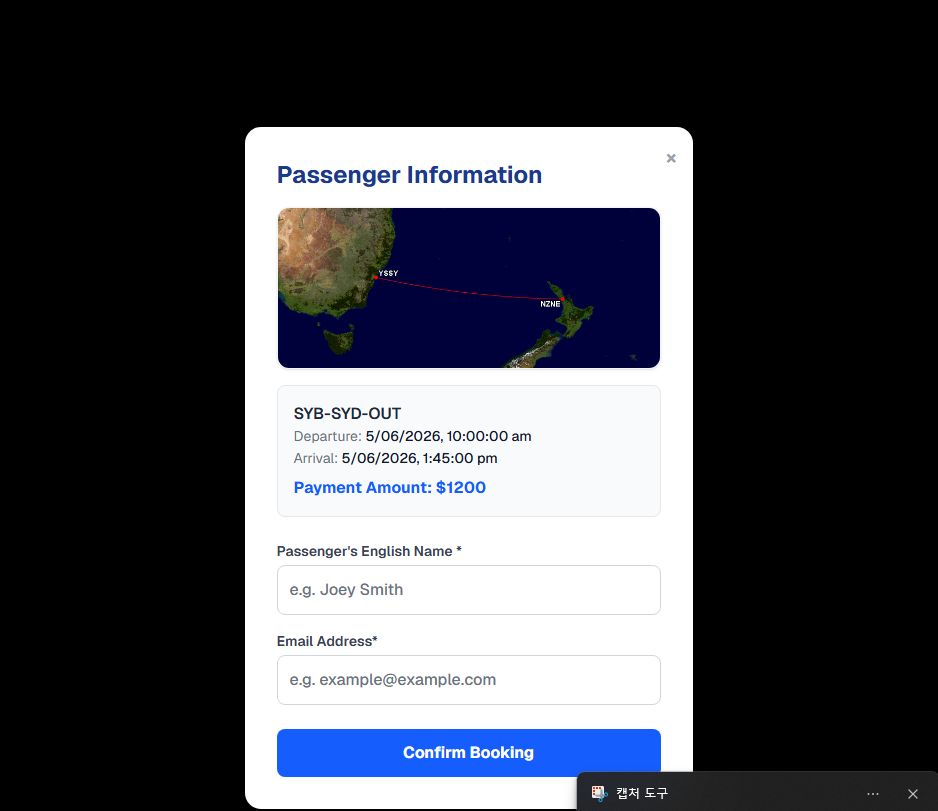
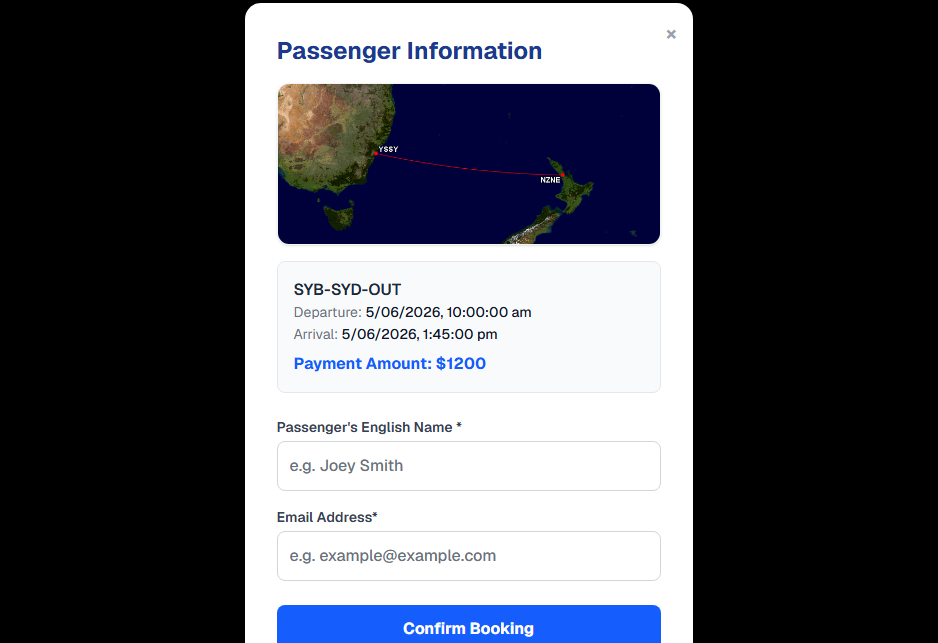
portfolio demo image updated

Changed region(s): [[0.2473, 0.0, 0.742, 0.6221], [0.2473, 0.7776, 1.0, 1.0], [0.2783, 0.6532, 0.4947, 0.7465]]

diff --git a/src/resources/content.tsx b/src/resources/content.tsx
@@ -7,7 +7,7 @@ const person: Person = {
   firstName: "Taylor", 
   lastName: "kim",
   name: `Taylor kim`,
-  role: "Developer and GIS Specialist",
+  role: "Software Developer and GIS Specialist",
   avatar: "/images/avatar.png",
   email: "[email redacted]",
   location: "Australia/Brisbane", // Expecting the IANA time zone identifier, e.g., 'Europe/Vienna'